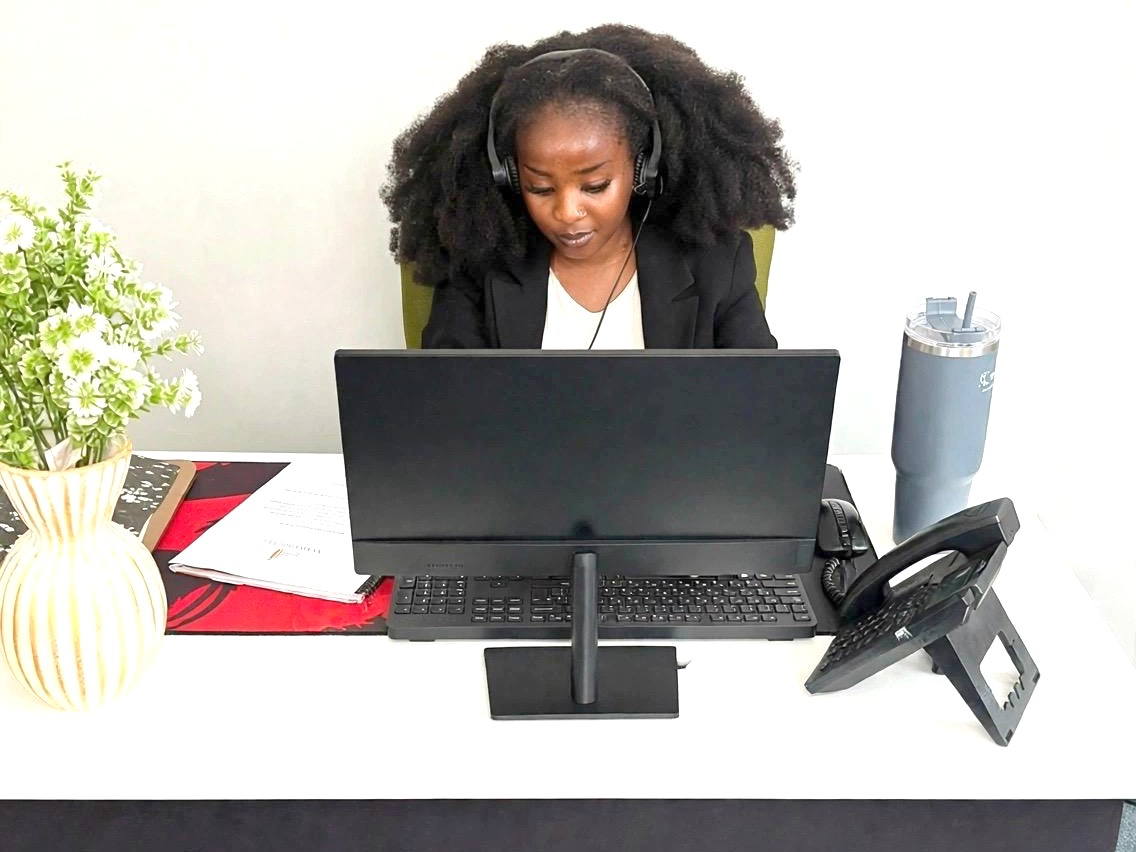
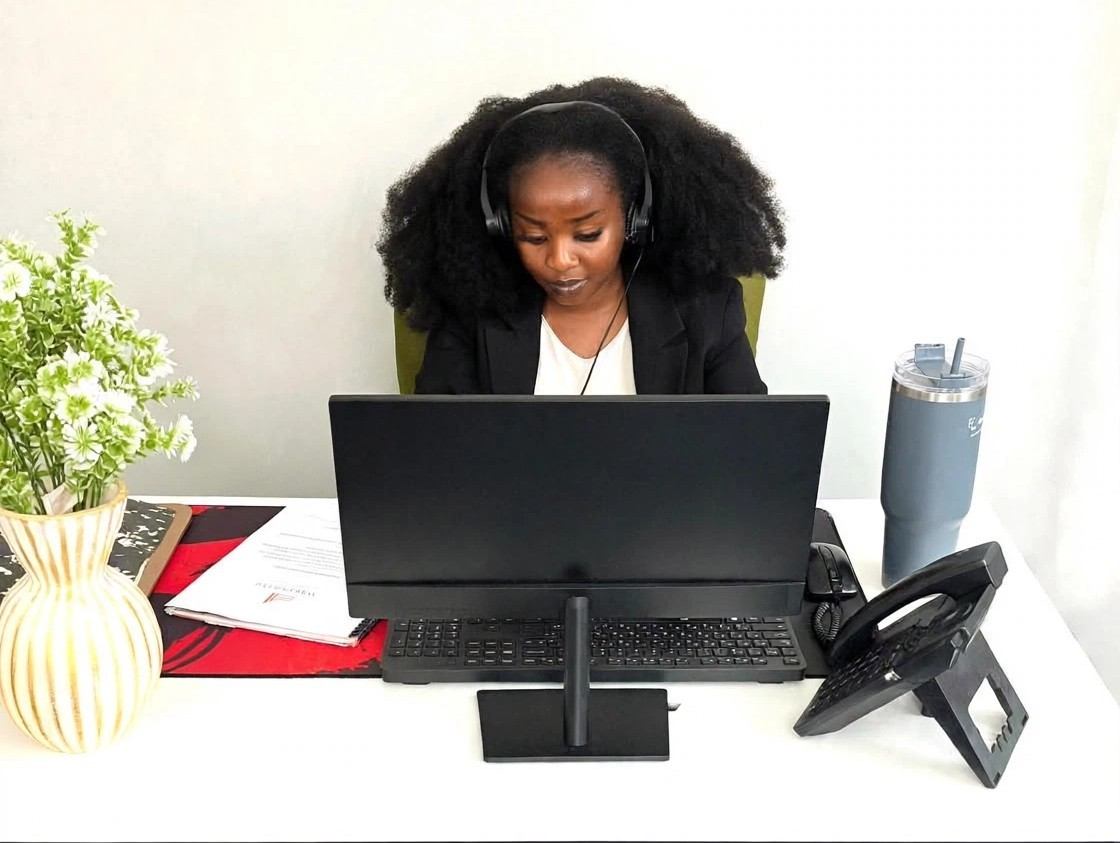
Remove duplicate image, contact email defaults to info@

diff --git a/website/templates/careers.html b/website/templates/careers.html
@@ -5,7 +5,7 @@
 
   <section class="nkmb-hero">
     <div class="nkmb-hero-bg">
-      <img class="nkmb-hero-photo" src="{% static 'img/team-careers.jpg' %}" alt="The Nokamabovu team in company jackets" style="object-position:62% 45%;">
+      <img class="nkmb-hero-photo" src="{% static 'img/life-jackets.jpg' %}" alt="The Nokamabovu team in company jackets" style="object-position:62% 45%;">
       <div class="nkmb-hero-scrim car-hero-scrim"></div>
     </div>
     <div class="nkmb-hero-left">

diff --git a/nokamabovu_project/settings.py b/nokamabovu_project/settings.py
@@ -162,8 +162,8 @@ EMAIL_TIMEOUT = 10
 
 # The "From" address on outgoing mail, and the inbox the contact form delivers to.
 DEFAULT_FROM_EMAIL = os.environ.get(
-    "DJANGO_DEFAULT_FROM_EMAIL", "Nokamabovu Website <sd@nokamabovu.onmicrosoft.com>"
+    "DJANGO_DEFAULT_FROM_EMAIL", "Nokamabovu Website <info@nokamabovu.co.za>"
 )
 CONTACT_RECIPIENT_EMAIL = os.environ.get(
-    "DJANGO_CONTACT_RECIPIENT_EMAIL", "sd@nokamabovu.onmicrosoft.com"
+    "DJANGO_CONTACT_RECIPIENT_EMAIL", "info@nokamabovu.co.za"
 )
